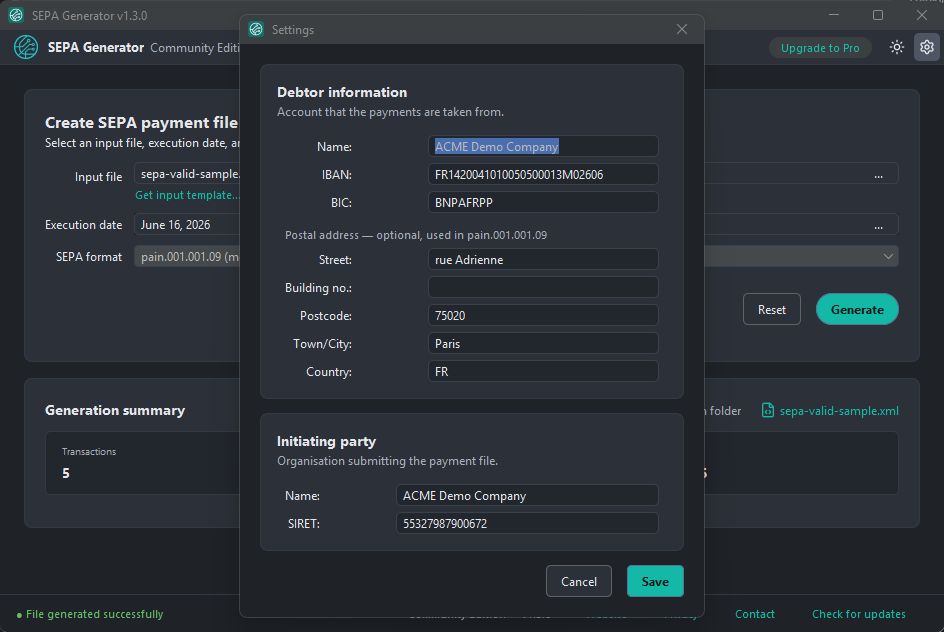
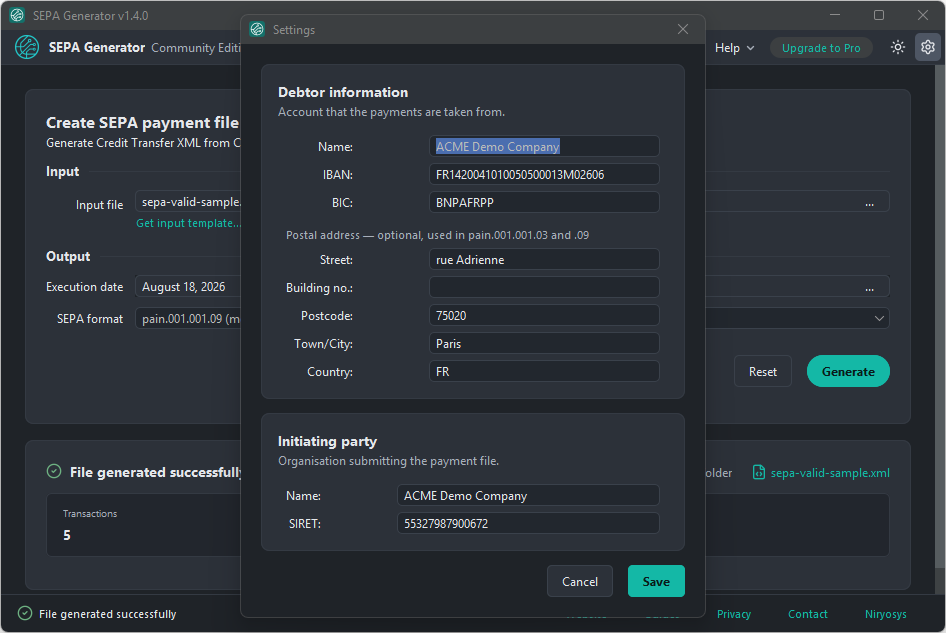
docs: refresh README screenshots with current Community 1.4.0 UI
Replace the stale screenshot set with three current captures cropped
exactly to the application window bounds:

- main window with a successful generation summary (light)
- settings window with debtor and initiating party fields (dark)
- validation feedback with row-level input issues (light)

Add short captions and descriptive alt text, and drop the redundant
standalone dark-theme shot so the section stays compact. Remove the
unused older screenshot assets.

diff --git a/README.md b/README.md
@@ -69,19 +69,21 @@ generation and advanced validation and migration workflows are available in
 
 ### Main window
 
-![SEPA Generator main window with generation summary](docs/assets/screenshot-sepa-generator-summary-light.png)
+Select an input file, choose an execution date and SEPA format, generate, and get a summary of the generated file.
 
-### Dark theme
-
-![SEPA Generator dark theme](docs/assets/screenshot-sepa-generator-home-dark.png)
+![SEPA Generator Community main window showing a successful generation summary](docs/assets/screenshot-sepa-generator-main-window-light.png)
 
 ### Settings
 
-![SEPA Generator settings](docs/assets/screenshot-sepa-generator-settings-light.png)
+Debtor and initiating party details, including the optional postal address used by `pain.001.001.03` and `.09` (dark theme shown).
 
-### Validation and error handling
+![SEPA Generator settings window with debtor and initiating party fields](docs/assets/screenshot-sepa-generator-settings-dark.png)
 
-![SEPA Generator validation error](docs/assets/screenshot-sepa-generator-invalid-dark.png)
+### Validation feedback
+
+Input files are validated before generation, with row-level messages explaining what to fix.
+
+![SEPA Generator reporting three row-level input validation issues](docs/assets/screenshot-sepa-generator-validation-error-light.png)
 
 ---
 
